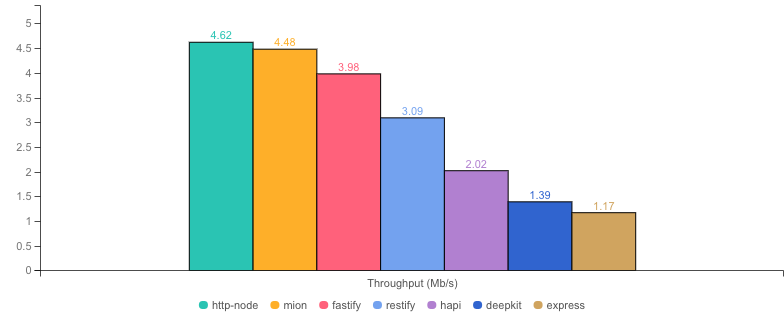
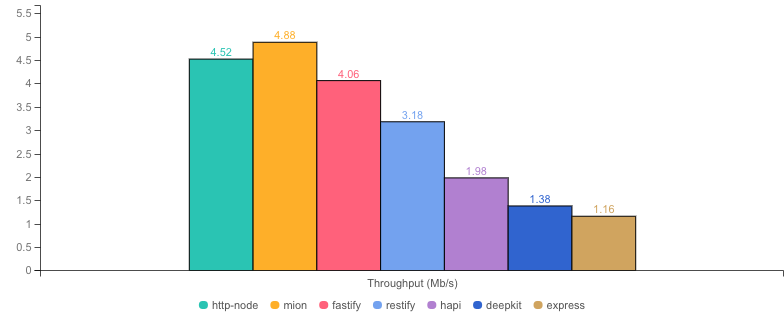
update benchmarks to last commit

diff --git a/_compiled-apps/apps/src/mionApp.js b/_compiled-apps/apps/src/mionApp.js
@@ -9,7 +9,7 @@ var __awaiter = (this && this.__awaiter) || function (thisArg, _arguments, P, ge
     });
 };
 Object.defineProperty(exports, "__esModule", { value: true });
-exports.addRoutes = exports.initHttp = exports.routesWithAsyncCallContext = exports.routes = exports.logAsyncCallContext = exports.updateUserNoAppOrContext = exports.updateUser = exports.mionSayHelloRoute = exports.__ΩShared = exports.shared = void 0;
+exports.addRoutes = exports.initHttp = exports.routesWithAsyncCallContext = exports.routes = exports.updateUserNoAppOrContext = exports.updateUser = exports.mionSayHelloRoute = exports.__ΩShared = exports.shared = void 0;
 const { __ΩSayHello } = require("./models");
 const { __ΩUser } = require("./models");
 const { __ΩHttpOptions } = require("@mionkit/http");
@@ -19,7 +19,6 @@ function __assignType(fn, args) {
 }
 const __ΩPartial = ['T', 'l+e#!e"!fRb!Pde"!gN#"'];
 const http_1 = require("@mionkit/http");
-const router_1 = require("@mionkit/router");
 exports.shared = {};
 const __ΩShared = [() => SharedArrayBuffer, 'i!'];
 exports.__ΩShared = __ΩShared;
@@ -32,23 +31,19 @@ exports.updateUserNoAppOrContext = __assignType((user) => __awaiter(void 0, void
     user.lastUpdate.setMonth(user.lastUpdate.getMonth() + 1);
     return user;
 }), [() => __ΩUser, 'user', () => __ΩUser, '', 'Pn!2"n#`/$']);
-exports.logAsyncCallContext = __assignType((name) => {
-    const callContext = (0, router_1.getCallContext)();
-    console.log(callContext);
-    return { hello: name };
-}, ['name', 'hello', '', 'P&2!P&4"M/#']);
 exports.routes = {
     "/": exports.mionSayHelloRoute,
+    sayHello: exports.mionSayHelloRoute,
     updateUser: exports.updateUser,
 };
 exports.routesWithAsyncCallContext = {
     "/": exports.mionSayHelloRoute,
+    sayHello: exports.mionSayHelloRoute,
     updateUser: exports.updateUserNoAppOrContext,
-    logAsyncCallContext: exports.logAsyncCallContext,
 };
 exports.initHttp = __assignType((options) => {
     return (0, http_1.initHttpRouter)(options);
 }, [() => __ΩPartial, () => __ΩHttpOptions, 'options', '', 'Pn"o!"2#8"/$']);
-var router_2 = require("@mionkit/router");
-Object.defineProperty(exports, "addRoutes", { enumerable: true, get: function () { return router_2.registerRoutes; } });
+var router_1 = require("@mionkit/router");
+Object.defineProperty(exports, "addRoutes", { enumerable: true, get: function () { return router_1.registerRoutes; } });
 //# sourceMappingURL=mionApp.js.map

diff --git a/benchmarks/fastify.js b/benchmarks/fastify.js
@@ -32,15 +32,22 @@ fastify.addSchema({
   },
 });
 
+fastify.addSchema({
+  $id: "Hello",
+  type: "object",
+  required: ["hello"],
+  properties: {
+    hello: { type: "string" },
+  },
+});
+
 const rootRequestOpts = {
   schema: {
     response: {
       200: {
         type: "object",
         properties: {
-          hello: {
-            type: "string",
-          },
+          sayHello: { $ref: "Hello" },
         },
       },
     },
@@ -51,16 +58,16 @@ const updateUserOpts = {
   schema: {
     body: {
       type: "object",
-      required: ["/updateUser"],
+      required: ["updateUser"],
       properties: {
-        "/updateUser": { $ref: "User" },
+        updateUser: { $ref: "User" },
       },
     },
     response: {
       200: {
         type: "object",
         properties: {
-          "/updateUser": { $ref: "User" },
+          updateUser: { $ref: "User" },
         },
       },
     },
@@ -69,16 +76,15 @@ const updateUserOpts = {
 
 // ##### ROUTES ############
 fastify.post("/", rootRequestOpts, function (req, reply) {
-  console.log("here");
-  reply.send({ "/": { hello: "world" } });
+  reply.send({ sayHello: { hello: "world" } });
 });
 
 fastify.post("/updateUser", updateUserOpts, async function (req, reply) {
-  const rawUser = req.body["/updateUser"]; //date is not deserialized, it is with fastify and
+  const rawUser = req.body["updateUser"]; //date is not deserialized, it is with fastify and
   const user = deserializeUser(rawUser); // we need to convert date input manually
   user.lastUpdate.setMonth(user.lastUpdate.getMonth() + 1);
   reply.send({
-    "/updateUser": user,
+    updateUser: user,
   });
 });
 

diff --git a/_compiled-apps/apps/src/deepkitApp.js b/_compiled-apps/apps/src/deepkitApp.js
@@ -14,8 +14,8 @@ const app_1 = require("@deepkit/app");
 const framework_1 = require("@deepkit/framework");
 const http_2 = require("@deepkit/http");
 const logger_1 = require("@deepkit/logger");
-const __ΩmionUpdate = [() => __ΩUser, '/updateUser', 'Pn!4"M'];
-const __ΩmionSayHelloResponse = [() => __ΩSayHello, '/', 'Pn!4"M'];
+const __ΩmionUpdate = [() => __ΩUser, 'updateUser', 'Pn!4"M'];
+const __ΩmionSayHelloResponse = [() => __ΩSayHello, 'sayHello', 'Pn!4"M'];
 let app;
 class MyTransport {
     write(message) {
@@ -27,16 +27,16 @@ class MyTransport {
 exports.MyTransport = MyTransport;
 MyTransport.__type = [() => __ΩLogMessage, 'message', 'write', 'supportsColor', 'Pn!2""0#P"0$5'];
 exports.deepKitSayHelloRoute = __assignType(() => {
-    return { "/": { hello: "world" } };
+    return { sayHello: { hello: "world" } };
 }, [() => __ΩmionSayHelloResponse, '', 'Pn!/"']);
 const setRoutes = () => {
     const router = app.get(http_2.HttpRouterRegistry);
     router.any("/", exports.deepKitSayHelloRoute);
     router.post("/updateUser", __assignType((body) => {
-        const user = body["/updateUser"];
+        const user = body["updateUser"];
         user.lastUpdate.setMonth(user.lastUpdate.getMonth() + 1);
         return {
-            "/updateUser": user,
+            updateUser: user,
         };
     }, [() => __ΩHttpBody, () => __ΩmionUpdate, 'body', () => __ΩmionUpdate, '', 'Pn"o!"2#n$/%']));
 };

diff --git a/apps/src/mionApp.ts b/apps/src/mionApp.ts
@@ -6,12 +6,7 @@
  * ######## */
 
 import { HttpOptions, initHttpRouter } from "@mionkit/http";
-import {
-  type RouterOptions,
-  type Routes,
-  type Route,
-  getCallContext,
-} from "@mionkit/router";
+import { type Routes, type Route } from "@mionkit/router";
 import { SayHello, User } from "./models";
 
 export const shared = {};
@@ -28,22 +23,16 @@ export const updateUserNoAppOrContext = async (user: User): Promise<User> => {
   return user;
 };
 
-// this is just for manual testing, not used in the benchmarks
-export const logAsyncCallContext = (name: string): { hello: string } => {
-  const callContext = getCallContext();
-  console.log(callContext);
-  return { hello: name };
-};
-
 export const routes: Routes = {
   "/": mionSayHelloRoute,
+  sayHello: mionSayHelloRoute,
   updateUser,
 };
 
 export const routesWithAsyncCallContext: Routes = {
   "/": mionSayHelloRoute,
+  sayHello: mionSayHelloRoute,
   updateUser: updateUserNoAppOrContext as any,
-  logAsyncCallContext: logAsyncCallContext as any,
 };
 
 export const initHttp = (options?: Partial<HttpOptions>) => {

diff --git a/benchmarks/http-node.js b/benchmarks/http-node.js
@@ -56,10 +56,10 @@ const server = require("http").createServer(function (req, res) {
   req.on("end", function () {
     const rawBody = Buffer.concat(data).toString();
     if (req.url === "/") {
-      res.end(JSON.stringify({ "/": { hello: "world" } }));
+      res.end(JSON.stringify({ sayHello: { hello: "world" } }));
     } else if (req.url === "/updateUser") {
       const body = JSON.parse(rawBody);
-      const rawUser = body["/updateUser"];
+      const rawUser = body["updateUser"];
       if (!isUser(rawUser)) {
         const errorBody = JSON.stringify({
           error: "invalid input, not an user",
@@ -70,7 +70,7 @@ const server = require("http").createServer(function (req, res) {
       const user = deserializeUser(rawUser); // we would need to deserialize to be able to use date etc
       user.lastUpdate.setMonth(user.lastUpdate.getMonth() + 1);
       const resBody = JSON.stringify({
-        "/updateUser": user,
+        updateUser: user,
       });
       reply(res, resBody, 200);
     } else {

diff --git a/lib/packages-mion-options.js b/lib/packages-mion-options.js
@@ -18,14 +18,6 @@ const packages = {
     description:
       "using mion http with promises `HttpOptions.useCallbacks = false`",
   },
-  "mion-async-context": {
-    hasRouter: true,
-    package: "@mionkit/compiled-app",
-    validation: "✓",
-    version: "0.1.0",
-    description:
-      "using mion http with promises and sync call context `RouterOptions.useAsyncCallContext = true`",
-  },
   "mion-callbacks": {
     hasRouter: true,
     package: "@mionkit/compiled-app",
@@ -33,14 +25,6 @@ const packages = {
     version: "0.1.0",
     description:
       "using mion http with callbacks `HttpOptions.useCallbacks = true`",
-  },
-  "mion-async-context-callbacks": {
-    hasRouter: true,
-    package: "@mionkit/compiled-app",
-    validation: "✓",
-    version: "0.1.0",
-    description:
-      "using mion http with callbacks and sync call context `RouterOptions.useAsyncCallContext = true`",
   },
   mion3000: {
     hasRouter: true,

diff --git a/apps/src/deepkitApp.ts b/apps/src/deepkitApp.ts
@@ -24,11 +24,11 @@ import {
 import { SayHello, User } from "./models";
 
 type mionUpdate = {
-  "/updateUser": User;
+  updateUser: User;
 };
 
 type mionSayHelloResponse = {
-  "/": SayHello;
+  sayHello: SayHello;
 };
 
 let app: App<any>;
@@ -45,7 +45,7 @@ export class MyTransport implements LoggerTransport {
 }
 
 export const deepKitSayHelloRoute = (): mionSayHelloResponse => {
-  return { "/": { hello: "world" } };
+  return { sayHello: { hello: "world" } };
 };
 
 export const setRoutes = () => {
@@ -54,10 +54,10 @@ export const setRoutes = () => {
   router.any("/", deepKitSayHelloRoute);
 
   router.post("/updateUser", (body: HttpBody<mionUpdate>): mionUpdate => {
-    const user = body["/updateUser"];
+    const user = body["updateUser"];
     user.lastUpdate.setMonth(user.lastUpdate.getMonth() + 1);
     return {
-      "/updateUser": user,
+      updateUser: user,
     };
   });
 };

diff --git a/benchmarks/hapi.js b/benchmarks/hapi.js
@@ -56,7 +56,7 @@ async function start() {
       state: { parse: false },
     },
     handler: function (request, h) {
-      return { "/": { hello: "world" } };
+      return { sayHello: { hello: "world" } };
     },
   });
 
@@ -71,12 +71,12 @@ async function start() {
       state: { parse: false },
     },
     handler: function (request, h) {
-      const rawUser = request.payload?.["/updateUser"];
+      const rawUser = request.payload?.["updateUser"];
       if (!isUser(rawUser)) throw "app error, invalid parameter, not a user";
       const user = deserializeUser(rawUser); // we would need to deserialize to be able to use date etc
       user.lastUpdate.setMonth(user.lastUpdate.getMonth() + 1);
       return {
-        "/updateUser": user,
+        updateUser: user,
       };
     },
   });

diff --git a/benchmarks/restify.js b/benchmarks/restify.js
@@ -44,7 +44,7 @@ const server = restify.createServer();
 server.use(restify.plugins.bodyParser({}));
 
 server.post("/updateUser", function (req, res) {
-  const rawUser = req.body?.["/updateUser"];
+  const rawUser = req.body?.["updateUser"];
   if (!isUser(rawUser)) {
     res.statusCode = 400;
     res.send({
@@ -56,13 +56,13 @@ server.post("/updateUser", function (req, res) {
   user.lastUpdate.setMonth(user.lastUpdate.getMonth() + 1);
   res.contentType = "json";
   res.send({
-    "/updateUser": user,
+    updateUser: user,
   });
 });
 
 server.post("/", function (req, res) {
   res.contentType = "json";
-  res.send({ hello: "world" });
+  res.send({ sayHello: { hello: "world" } });
 });
 
 server.listen(3000);

diff --git a/lib/autocannon.js b/lib/autocannon.js
@@ -34,8 +34,8 @@ const run = (opts = {}, handler) =>
     // TODO: Move post param to pacakges
     opts.body =
       handler === "mion"
-        ? '{"/updateUser":[{"id":123,"name":"john","surname":"smith","lastUpdate":"2020-12-17T02:24:00.000Z"}]}'
-        : '{"/updateUser":{"id":123,"name":"john","surname":"smith","lastUpdate":"2020-12-17T02:24:00.000Z"}}';
+        ? '{"updateUser":[{"id":123,"name":"john","surname":"smith","lastUpdate":"2020-12-17T02:24:00.000Z"}]}'
+        : '{"updateUser":{"id":123,"name":"john","surname":"smith","lastUpdate":"2020-12-17T02:24:00.000Z"}}';
     opts.headers = {
       accept: "*/*",
       "Content-Type": "application/json",

diff --git a/benchmarks/express.js b/benchmarks/express.js
@@ -54,16 +54,16 @@ app.disable("x-powered-by");
 
 // ##### ROUTES ############
 app.post("/", function (req, res) {
-  res.json({ "/": { hello: "world" } });
+  res.json({ sayHello: { hello: "world" } });
 });
 
 app.post("/updateUser", function (req, res) {
-  const rawUser = req.body?.["/updateUser"];
+  const rawUser = req.body?.["updateUser"];
   if (!isUser(rawUser)) throw "app error, invalid parameter, not a user";
   const user = deserializeUser(rawUser);
   user.lastUpdate.setMonth(user.lastUpdate.getMonth() + 1);
   res.json({
-    "/updateUser": user,
+    updateUser: user,
   });
 });
 

diff --git a/_compiled-apps/apps/src/mionApp.d.ts b/_compiled-apps/apps/src/mionApp.d.ts
@@ -6,9 +6,6 @@ export type Shared = typeof SharedArrayBuffer;
 export declare const mionSayHelloRoute: Route;
 export declare const updateUser: Route;
 export declare const updateUserNoAppOrContext: (user: User) => Promise<User>;
-export declare const logAsyncCallContext: (name: string) => {
-    hello: string;
-};
 export declare const routes: Routes;
 export declare const routesWithAsyncCallContext: Routes;
 export declare const initHttp: (options?: Partial<HttpOptions>) => void;
